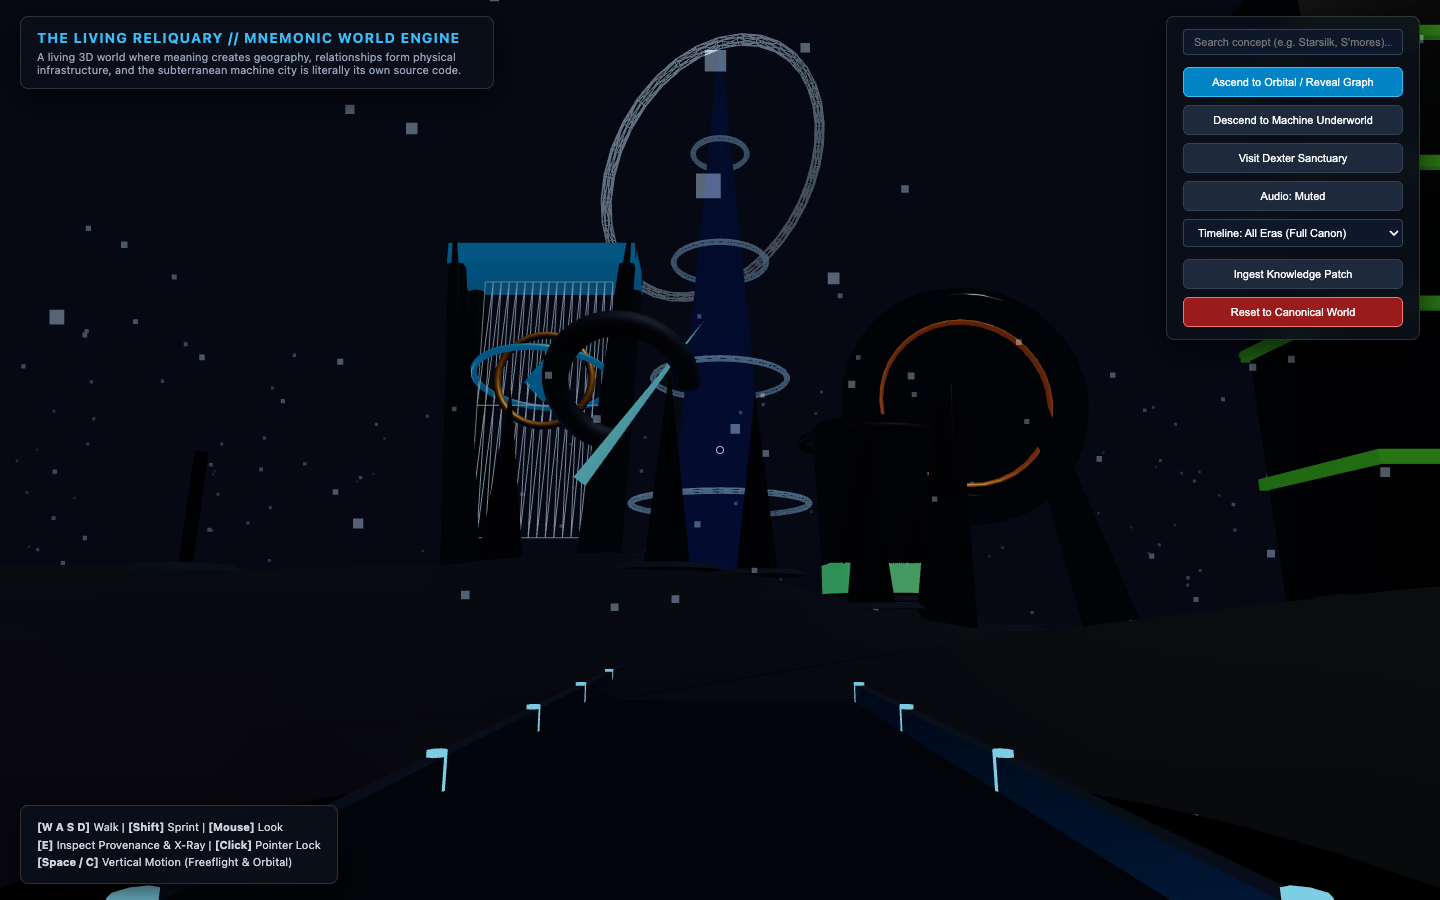
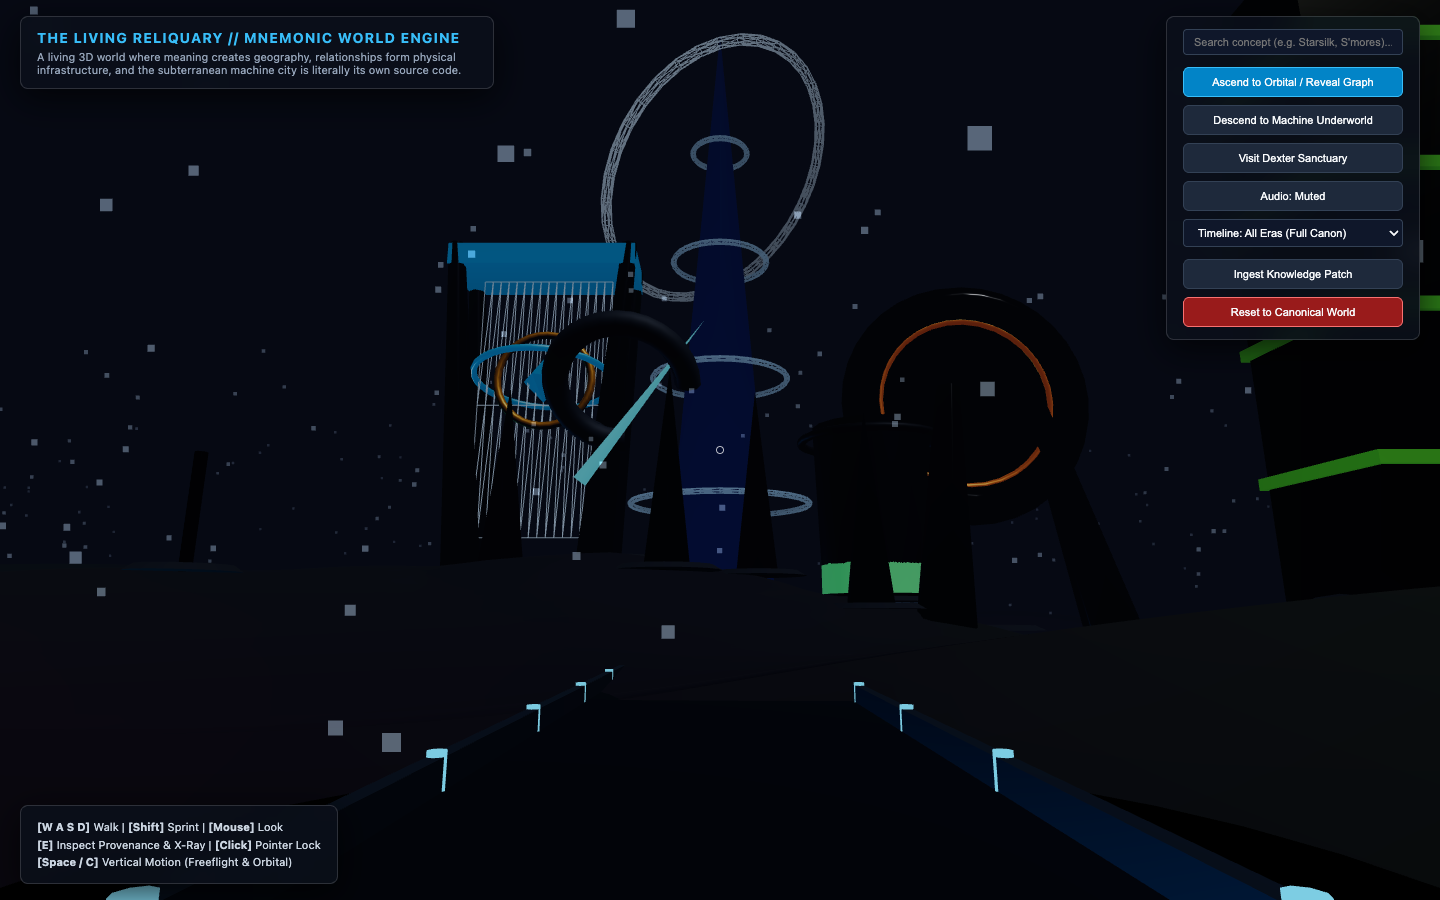
refine(loop-08): animated photon signal packets along parabolic relational arcs in orbital mode

diff --git a/src/world/GraphRenderer.ts b/src/world/GraphRenderer.ts
@@ -85,20 +85,36 @@ export class GraphRenderer {
       });
 
       const line = new THREE.Line(geo, mat);
-      line.userData = { relationship: rel };
+      line.userData = { relationship: rel, curve };
+
+      // Traveling photon beacon along the arc attached to line
+      const packetGeo = new THREE.SphereGeometry(0.55, 8, 8);
+      const packetMat = new THREE.MeshBasicMaterial({ color: style.color });
+      const packet = new THREE.Mesh(packetGeo, packetMat);
+      packet.userData = { curve, speed: 0.15 + (dist % 5) * 0.04, offset: Math.random() };
+      packet.name = 'graph_signal_packet';
+      line.add(packet);
+
       this.group.add(line);
       this.lineMeshes.push(line);
     }
   }
 
   public pulse() {
-    // Orbital animation pulse
-    const time = performance.now() * 0.003;
+    // Orbital animation pulse and traveling signal packets
+    const time = performance.now() * 0.001;
     for (const line of this.lineMeshes) {
+      const packet = line.getObjectByName('graph_signal_packet');
+      if (packet && packet.userData.curve) {
+        const u = ((time * packet.userData.speed + packet.userData.offset) % 1.0);
+        const pt = (packet.userData.curve as THREE.QuadraticBezierCurve3).getPoint(u);
+        packet.position.copy(pt);
+      }
+
       const mat = line.material as THREE.LineBasicMaterial;
       const rel: SemanticRelationship = line.userData.relationship;
       if (rel && rel.isMutated) {
-        mat.opacity = 0.6 + 0.4 * Math.sin(time * 3);
+        mat.opacity = 0.6 + 0.4 * Math.sin(time * 6);
       }
     }
   }
